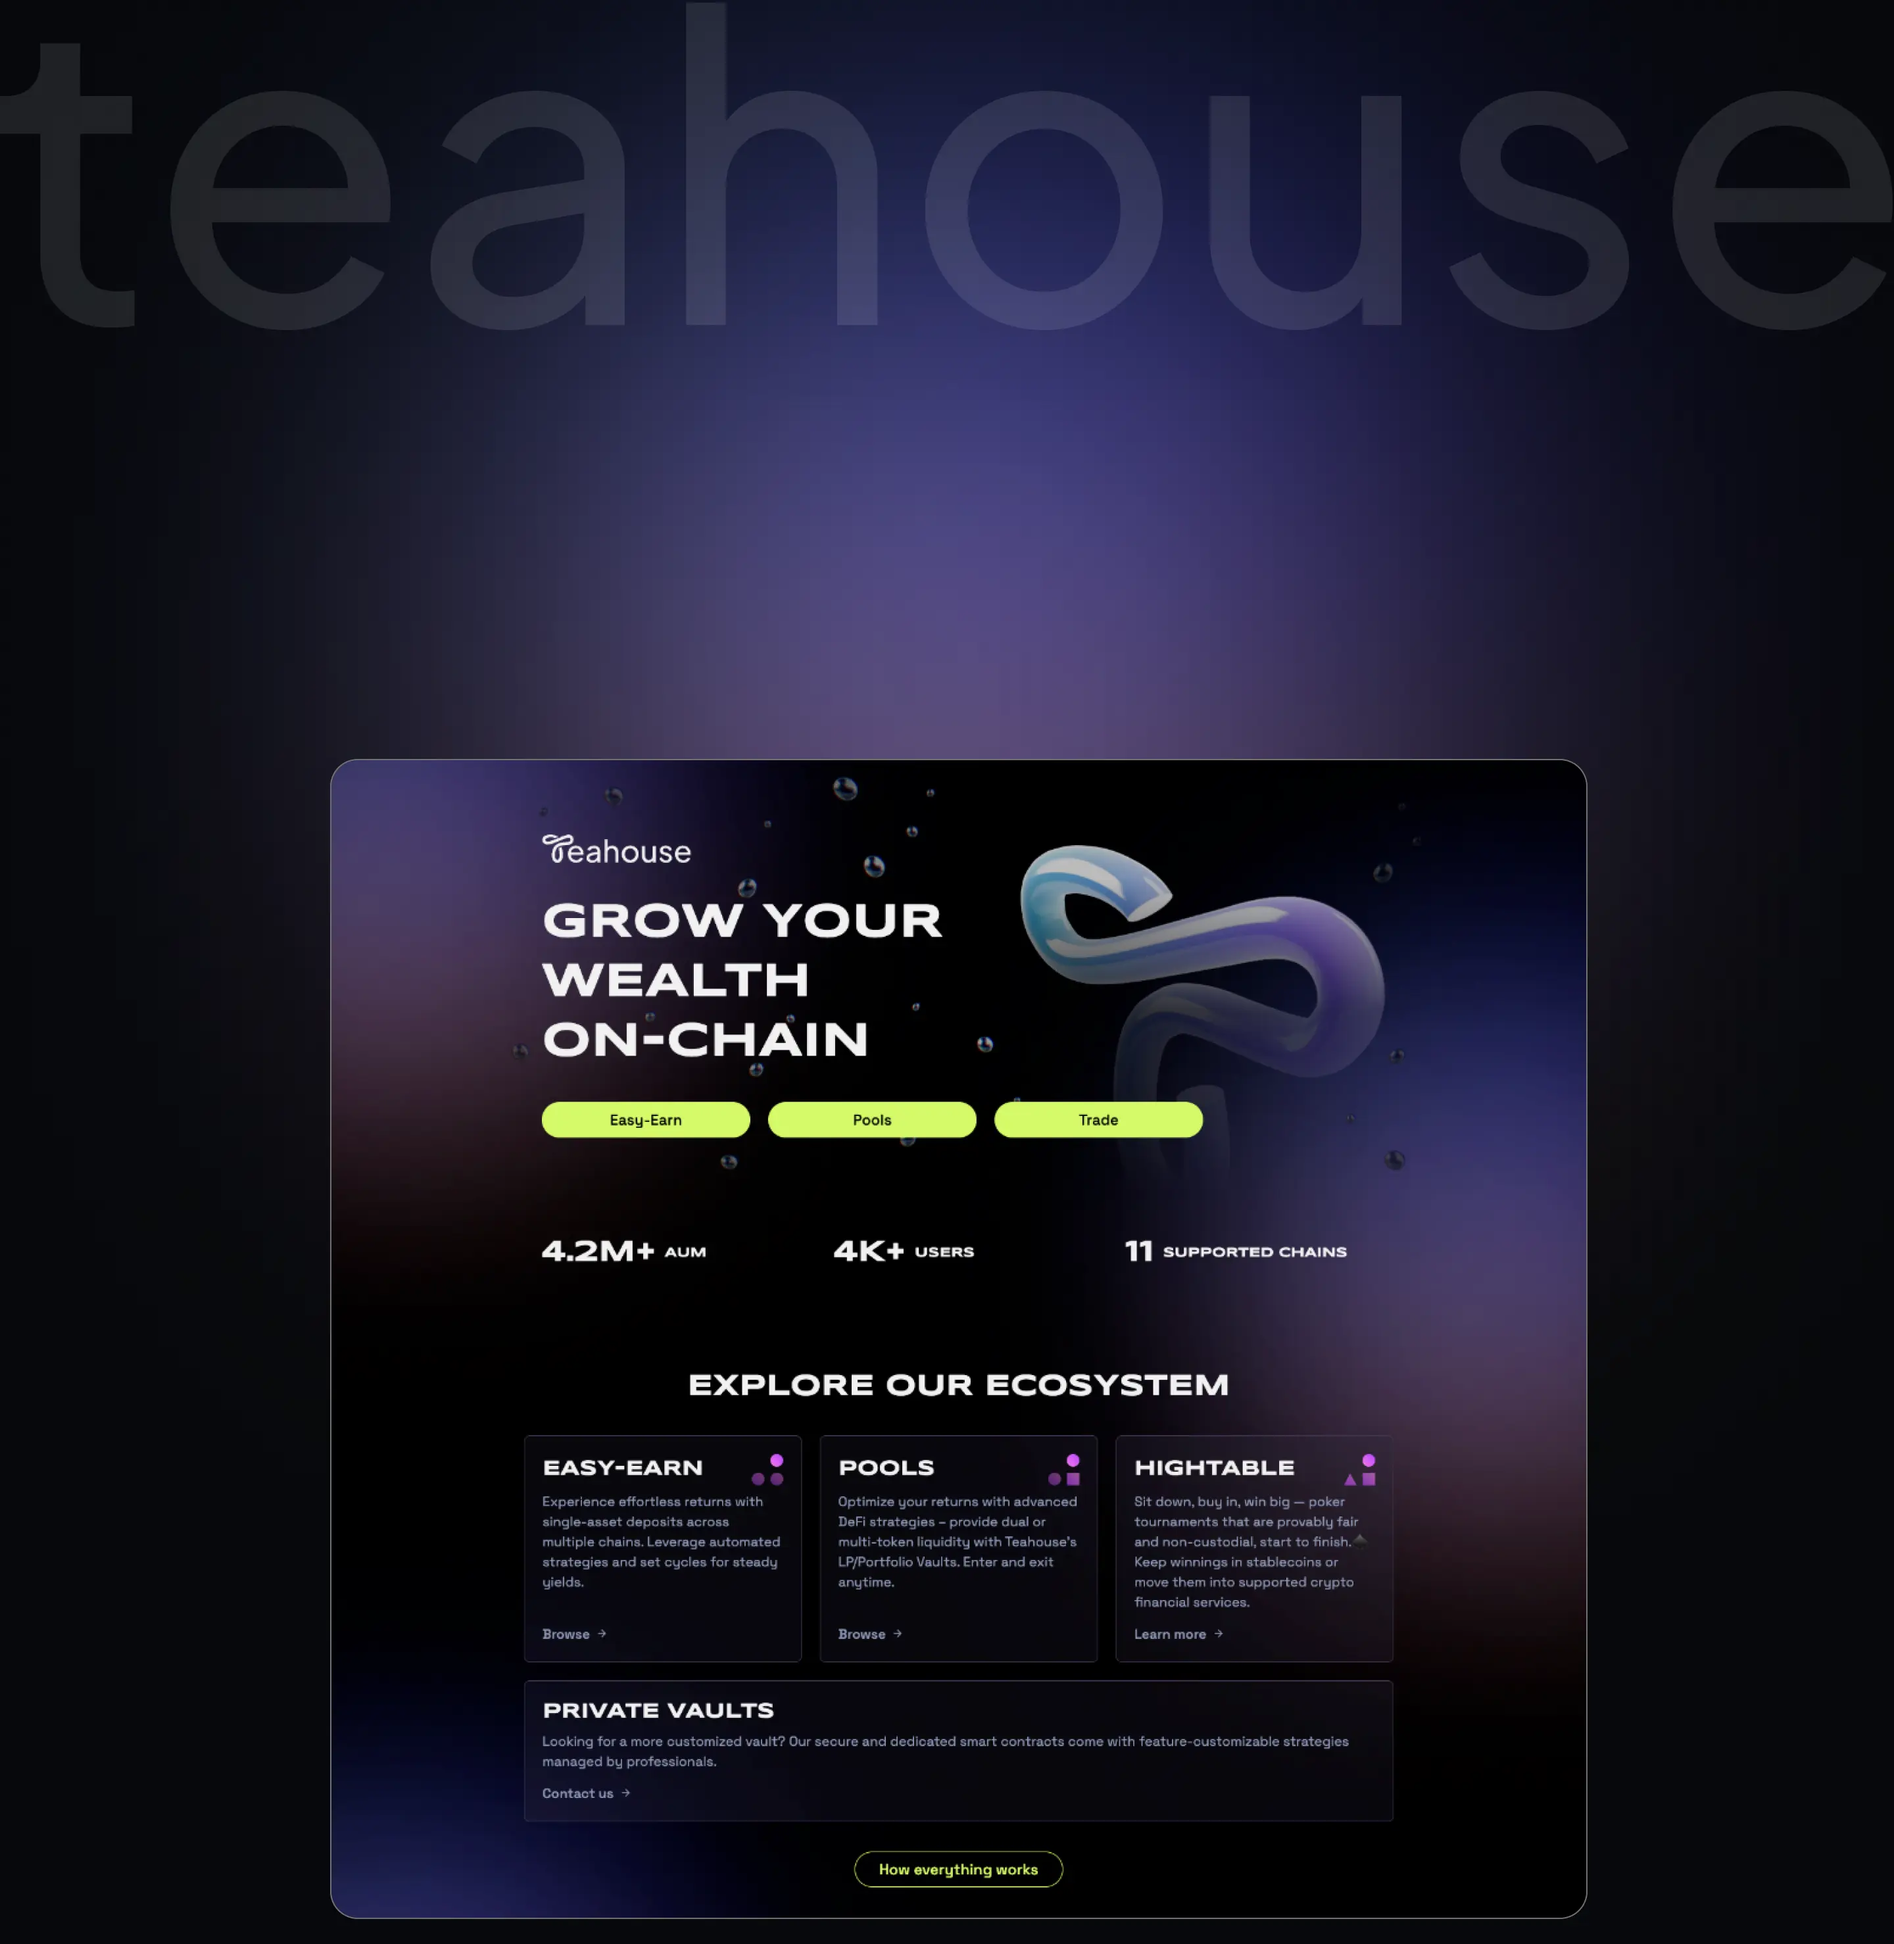
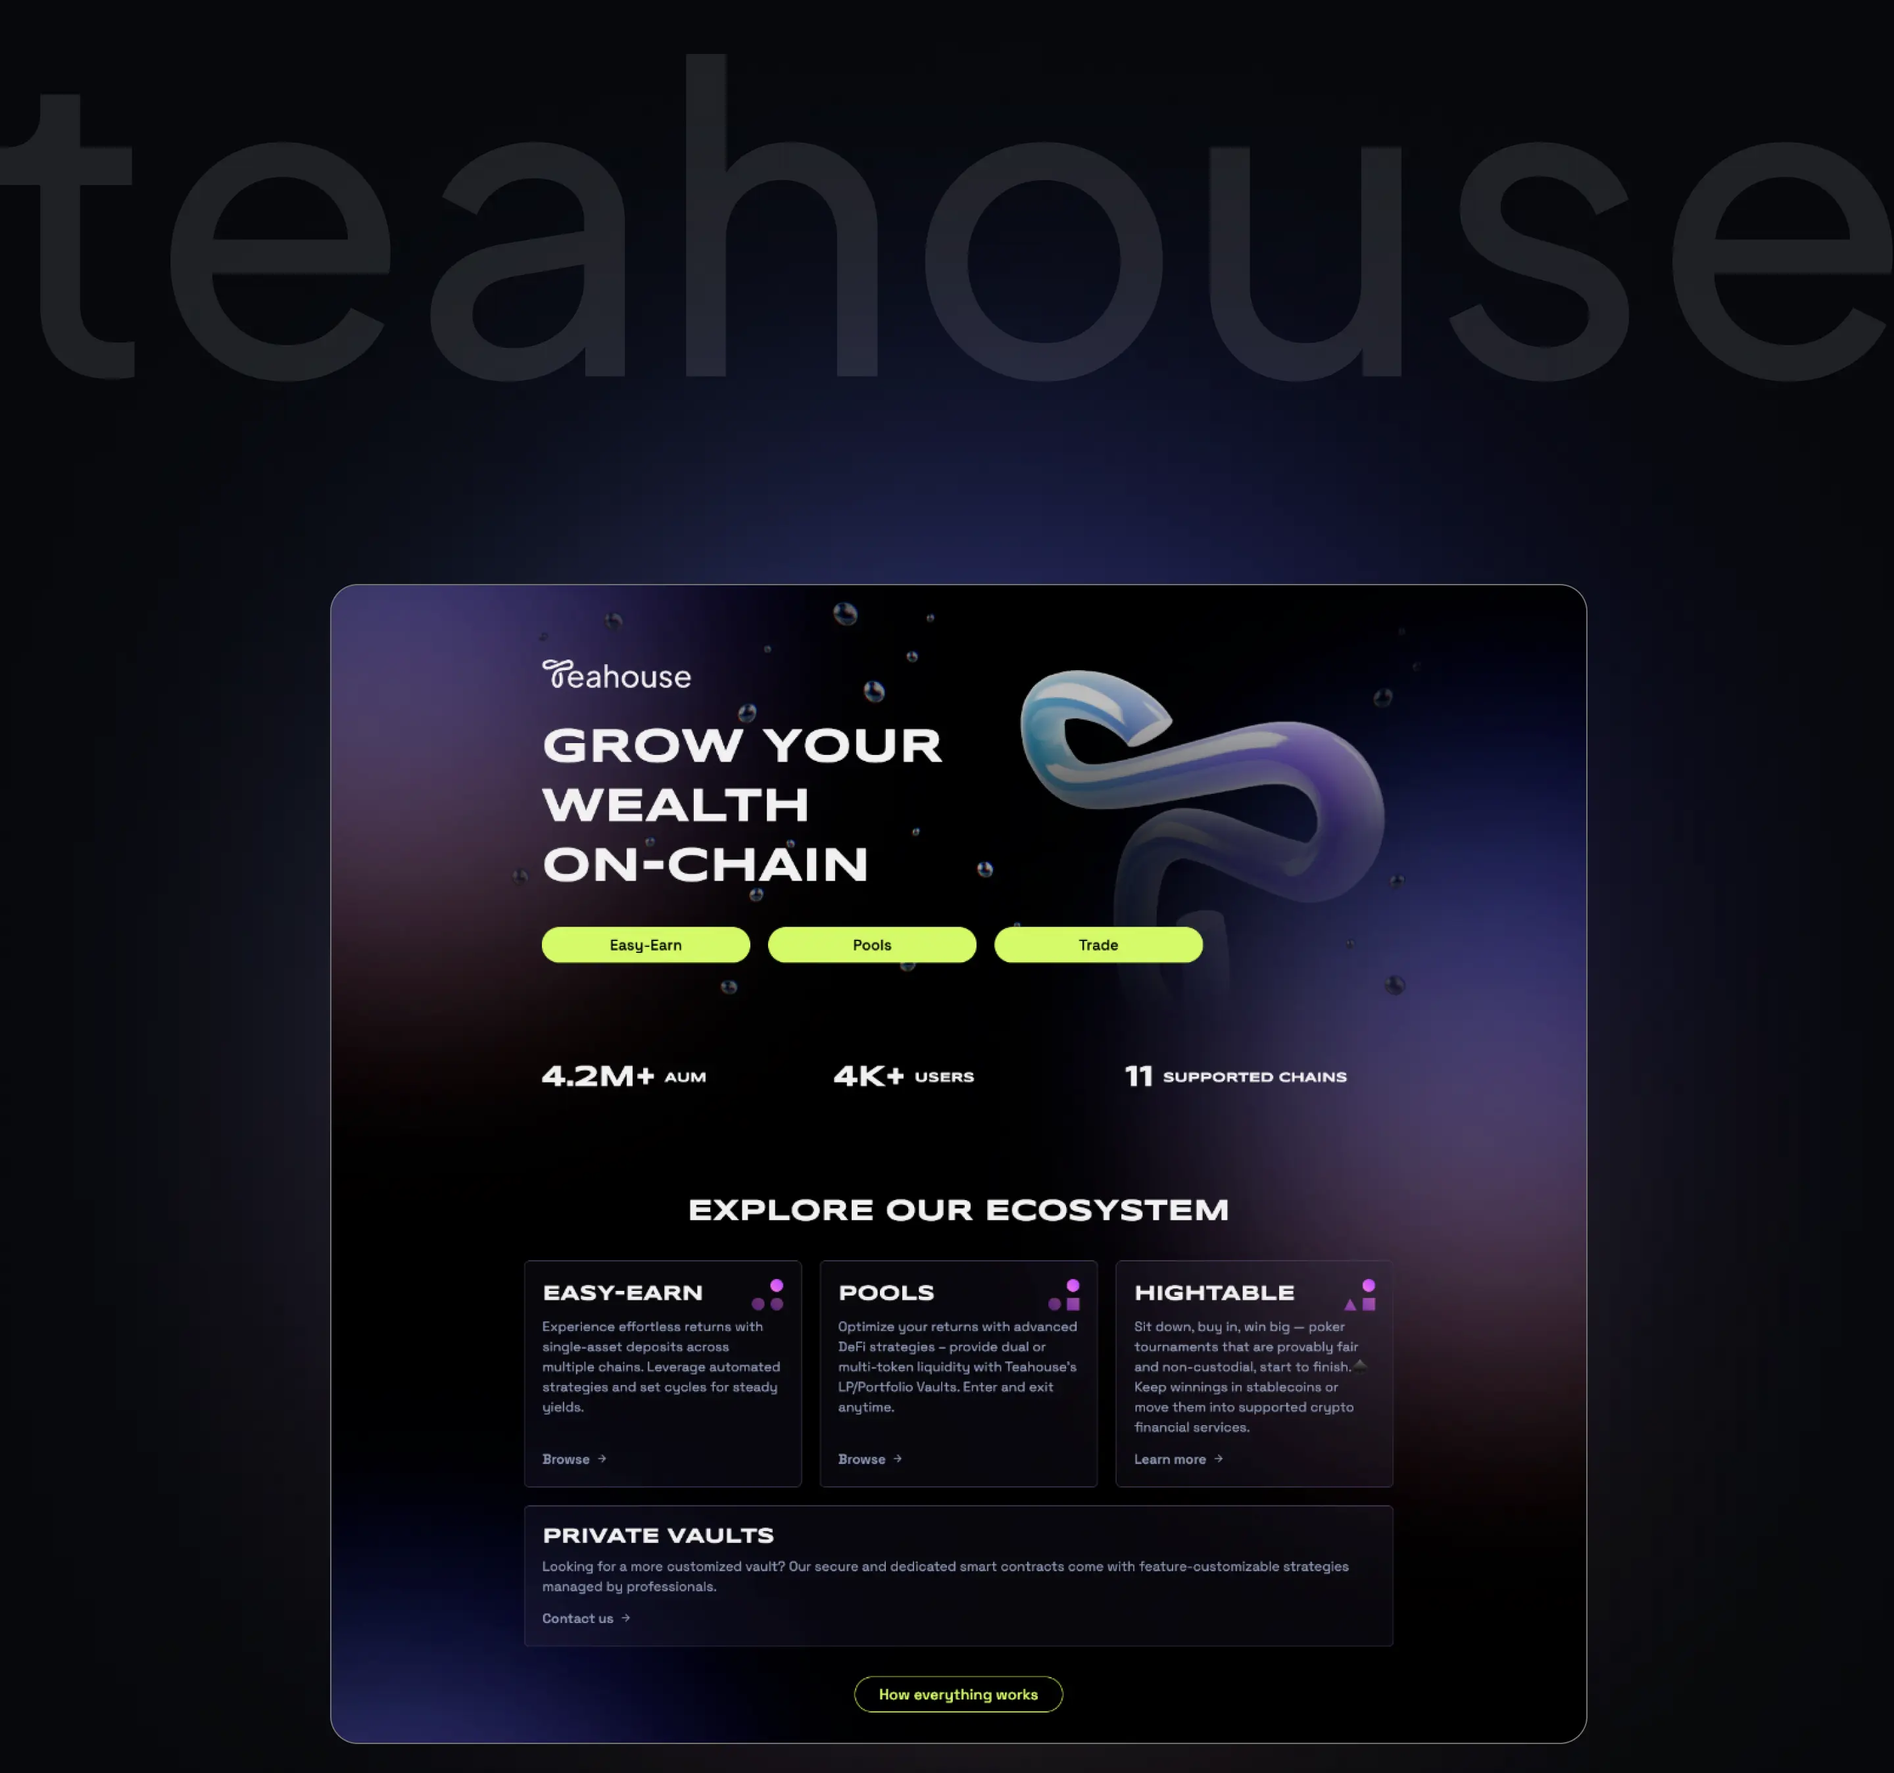
Teahouse: apply Figma fine-tunes
- Segmentation: both user profiles (Pools, Easy Earn) side by side under
  the intro copy; feature cards removed
- Pools / Easy Earn wordmarks now head their PRODUCT PLAN sections
- Vault index title: "Many vaults, one job: help you rule things out."
- Cyan accent (#a8fff8) for the Teahouse theme
- Re-exported desktop hero with the tighter composition
- Fix words running together in profile rows on mobile

Claude-Session: https://claude.ai/code/session_01XwSJSoqq3h7KCuvntWv7Qm

diff --git a/teahouse.html b/teahouse.html
@@ -42,7 +42,7 @@
 
     <div class="stack">
       <div class="block block--bleed" style="--w:1440px" data-reveal="scale">
-        <picture><source media="(max-width: 767px)" srcset="assets/teahouse/hero-mobile.webp" width="390" height="535"><img src="assets/teahouse/hero.webp" alt="Teahouse wordmark above the Teahouse.Finance landing page" width="1440" height="1478"></picture>
+        <picture><source media="(max-width: 767px)" srcset="assets/teahouse/hero-mobile.webp" width="390" height="535"><img src="assets/teahouse/hero.webp" alt="Teahouse wordmark above the Teahouse.Finance landing page" width="1440" height="1348"></picture>
       </div>
       <p class="live-link" data-reveal>View Live <a href="https://teahouse.finance/" target="_blank" rel="noopener">Teahouse.finance</a></p>
     </div>
@@ -61,37 +61,48 @@
       </div>
     </section>
 
-    <div class="block" style="--mw:264px; --w:489px" data-reveal="zoom">
-      <img src="assets/teahouse/pools-wordmark.svg" alt="pools" width="489" height="154" loading="lazy">
-    </div>
-
     <div class="persona">
       <article class="panel persona__card" data-reveal="left">
+        <p class="persona__name">POOLS</p>
         <p class="persona__cat">USER PROFILE</p>
         <p class="persona__quote">"I already do this. Show me if yours is better."</p>
         <div class="persona__rule"></div>
         <dl class="persona__rows">
           <div class="persona__row"><dt>Has</dt><dd>Existing LP positions somewhere else</dd></div>
           <div class="persona__row"><dt>Mental model</dt><dd>A position</dd></div>
-          <div class="persona__row"><dt>Knows</dt><dd>Everything above, plus Uniswap vs Oku · 0.01% vs 0.05% ·<br>delta-neutral · managed vs permissionless</dd></div>
+          <div class="persona__row"><dt>Knows</dt><dd>Everything above, plus Uniswap vs Oku · 0.01% vs 0.05% · <br>delta-neutral · managed vs permissionless</dd></div>
           <div class="persona__row"><dt>Doesn't know</dt><dd>Nothing that matters here</dd></div>
-          <div class="persona__row"><dt>Afraid of</dt><dd>Not losing money — losing edge. Being in a worse<br>pool than they could be</dd></div>
+          <div class="persona__row"><dt>Afraid of</dt><dd>Not losing money — losing edge. Being in a worse <br>pool than they could be</dd></div>
           <div class="persona__row"><dt>Arrives asking</dt><dd>"What's the risk-adjusted yield on this pair, on this chain?"</dd></div>
           <div class="persona__row"><dt>Succeeds when</dt><dd>They find the one vault matching a thesis they already had</dd></div>
         </dl>
       </article>
-      <div class="persona__features" data-stagger="right">
-        <article class="panel feature"><p class="feature__cat">FEATURE</p><div><p class="feature__title">Find My Fit</p><p class="feature__desc">Three questions, none of them about DeFi.</p></div></article>
-        <article class="panel feature"><p class="feature__cat">FEATURE</p><div><p class="feature__title">Vaults Index</p><p class="feature__desc">Every return shown next to what it costs.</p></div></article>
-        <article class="panel feature"><p class="feature__cat">FEATURE</p><div><p class="feature__title">Deposit Panel</p><p class="feature__desc">Every failure comes with a way out.</p></div></article>
-      </div>
+      <article class="panel persona__card" data-reveal="right">
+        <p class="persona__name">EASY EARN</p>
+        <p class="persona__cat">USER PROFILE</p>
+        <p class="persona__quote">"I own crypto. I don't want a second job."</p>
+        <div class="persona__rule"></div>
+        <dl class="persona__rows">
+          <div class="persona__row"><dt>Has</dt><dd>A wallet and one asset — ETH, BTC, or USDC</dd></div>
+          <div class="persona__row"><dt>Mental model</dt><dd>A savings account</dd></div>
+          <div class="persona__row"><dt>Knows</dt><dd>ETH · USDC · APR · wallet</dd></div>
+          <div class="persona__row"><dt>Doesn't know</dt><dd>LP · pair · fee tier · impermanent loss · AMM</dd></div>
+          <div class="persona__row"><dt>Afraid of</dt><dd>Losing the principal. Doing something they can't undo</dd></div>
+          <div class="persona__row"><dt>Arrives asking</dt><dd>"Where can my ETH earn something?"</dd></div>
+          <div class="persona__row"><dt>Succeeds when</dt><dd>They deposit without having to learn a single new word</dd></div>
+        </dl>
+      </article>
+    </div>
+
+    <div class="block block--lead" style="--mw:264px; --w:489px; --tw:400px" data-reveal="zoom">
+      <img src="assets/teahouse/pools-wordmark.svg" alt="pools" width="489" height="154" loading="lazy">
     </div>
 
     <!-- Vault index -->
     <section class="section">
       <header class="sh" data-stagger>
-        <p class="sh__cat">PRODUCT UX</p>
-        <h2 class="sh__title">Fifteen vaults, one job: help you rule things out.</h2>
+        <p class="sh__cat">PRODUCT PLAN</p>
+        <h2 class="sh__title">Many vaults, one job: help you rule things out.</h2>
       </header>
       <div class="prose" data-reveal>
         <p>Filters narrow from chain to strategy type. Find My Fit handles the people filters don't help — three questions, none about DeFi. Every row shows the return and what it costs: APR, drawdown, AUM, and how long it's been live.</p>
@@ -170,35 +181,14 @@
       <img src="assets/teahouse/flow-errors.webp" alt="Deposit error states: wrong chain, over balance, rejected approval, rejected deposit, returned deposit" width="1245" height="459" loading="lazy" data-reveal="left">
     </div>
 
-    <div class="block" style="--mw:264px; --w:638px" data-reveal="zoom">
+    <div class="block block--lead" style="--mw:264px; --w:638px; --tw:481px" data-reveal="zoom">
       <img src="assets/teahouse/easyearn-wordmark.svg" alt="easy Earn" width="638" height="138" loading="lazy">
-    </div>
-
-    <div class="persona">
-      <article class="panel persona__card" data-reveal="left">
-        <p class="persona__cat">USER PROFILE</p>
-        <p class="persona__quote">"I own crypto. I don't want a second job."</p>
-        <div class="persona__rule"></div>
-        <dl class="persona__rows">
-          <div class="persona__row"><dt>Has</dt><dd>A wallet and one asset — ETH, BTC, or USDC</dd></div>
-          <div class="persona__row"><dt>Mental model</dt><dd>A savings account</dd></div>
-          <div class="persona__row"><dt>Knows</dt><dd>ETH · USDC · APR · wallet</dd></div>
-          <div class="persona__row"><dt>Doesn't know</dt><dd>LP · pair · fee tier · impermanent loss · AMM</dd></div>
-          <div class="persona__row"><dt>Afraid of</dt><dd>Losing the principal. Doing something they can't undo</dd></div>
-          <div class="persona__row"><dt>Arrives asking</dt><dd>"Where can my ETH earn something?"</dd></div>
-          <div class="persona__row"><dt>Succeeds when</dt><dd>They deposit without having to learn a single new word</dd></div>
-        </dl>
-      </article>
-      <div class="persona__features" data-stagger="right">
-        <article class="panel feature"><p class="feature__cat">FEATURE</p><div><p class="feature__title">One card, one coin</p><p class="feature__desc">Pick the coin you already hold. That's the whole choice.</p></div></article>
-        <article class="panel feature"><p class="feature__cat">FEATURE</p><div><p class="feature__title">Same coin, any chain</p><p class="feature__desc">Switch networks without leaving the card.</p></div></article>
-        <article class="panel feature"><p class="feature__cat">FEATURE</p><div><p class="feature__title">Your position at a glance</p><p class="feature__desc">What you put in, what it's doing, what it earned.</p></div></article>
-      </div>
     </div>
 
     <!-- Easy-Earn -->
     <section class="section">
       <header class="sh" data-stagger>
+        <p class="sh__cat">PRODUCT PLAN</p>
         <h2 class="sh__title">Same coin, wherever it lives.</h2>
       </header>
       <div class="prose" data-reveal>

diff --git a/css/style.css b/css/style.css
@@ -44,7 +44,7 @@
 }
 
 body.theme-hightable { --bg: #130a23; --accent: #bdfb3d; }
-body.theme-teahouse { --bg: #06080b; --accent: #fe22d2; }
+body.theme-teahouse { --bg: #06080b; --accent: #a8fff8; }
 body.theme-tearex { --bg: #06080b; --accent: #fc7dfe; }
 
 *,
@@ -187,6 +187,8 @@ strong { font-weight: 700; }
 
 .block { width: min(var(--w, 100%), calc(100% - 2 * var(--gutter))); margin: 0 auto; }
 .block--bleed { width: min(var(--w, 1440px), 100%); }
+/* A wordmark that heads the next section: 30px down to its category line. */
+.block--lead { margin-bottom: calc(20px - var(--section-gap)); }
 .block img { width: 100%; }
 
 /* ---------- Section header ---------- */
@@ -802,11 +804,12 @@ strong { font-weight: 700; }
    ========================================================================== */
 
 .persona {
-  width: min(1137px, calc(100% - 2 * var(--gutter)));
+  width: min(1256px, calc(100% - 2 * var(--gutter)));
+  margin-top: calc(var(--persona-top, 60px) - var(--section-gap)); /* sits close under the segmentation copy */
   display: grid;
-  grid-template-columns: 618px 476px;
-  justify-content: space-between;
-  align-items: stretch;
+  grid-template-columns: repeat(2, minmax(0, 1fr));
+  gap: 17px;
+  align-items: start;
 }
 
 .panel {
@@ -822,13 +825,21 @@ strong { font-weight: 700; }
   padding: 20px 10px;
 }
 
-.persona__cat,
-.feature__cat {
+.persona__name {
   margin: 0;
   font-size: 18px;
+  font-weight: 700;
   line-height: 1;
   letter-spacing: 1.8px;
   color: var(--accent);
+}
+
+.persona__cat {
+  margin: -15px 0 0; /* name and "USER PROFILE" read as one label */
+  font-size: 12px;
+  line-height: 1.5;
+  letter-spacing: 1.8px;
+  color: #696969;
 }
 
 .persona__quote {
@@ -838,7 +849,7 @@ strong { font-weight: 700; }
   line-height: 1;
 }
 
-.persona__rule { height: 1px; background: var(--accent); }
+.persona__rule { height: 1px; background: var(--accent); opacity: 0.5; }
 
 .persona__rows { margin: 0; display: flex; flex-direction: column; gap: 15px; }
 
@@ -864,39 +875,6 @@ strong { font-weight: 700; }
   font-weight: 300;
   line-height: 24px;
   text-align: right;
-}
-
-.persona__features {
-  display: flex;
-  flex-direction: column;
-  gap: 45px;
-}
-
-.feature {
-  flex: 1;
-  display: flex;
-  flex-direction: column;
-  justify-content: space-between;
-  gap: 16px;
-  padding: 16px 10px;
-  transition: border-color 0.3s ease, transform 0.4s var(--ease-out);
-}
-
-.feature:hover { border-color: var(--accent); transform: translateX(-4px); }
-
-.feature__title {
-  margin: 0 0 6px;
-  font-size: 20px;
-  font-weight: 700;
-  line-height: 1;
-}
-
-.feature__desc {
-  margin: 0;
-  font-size: 14px;
-  font-weight: 300;
-  line-height: 21px;
-  color: #999;
 }
 
 .stack {
@@ -1050,9 +1028,7 @@ strong { font-weight: 700; }
   .table-real__boards { left: 67%; top: 199px; width: 33.8%; }
 
   /* ---------- Teahouse ---------- */
-  .persona { grid-template-columns: 1fr; gap: 30px; }
-  .persona__features { gap: 30px; }
-  .feature { gap: 12px; }
+  .persona { --persona-top: 32px; grid-template-columns: 1fr; gap: 44px; }
 
   .stack[style*="gap:100px"] { gap: 56px !important; }
   .stack img[style*="margin-top:81px"] { margin-top: 52px !important; }
@@ -1216,7 +1192,8 @@ strong { font-weight: 700; }
   .merch { width: 100%; max-width: 365px; margin: 0 auto; }
 
   /* ---------- Teahouse ---------- */
-  .persona { width: calc(100% - 2 * var(--gutter)); }
+  .persona { width: calc(100% - 2 * var(--gutter)); gap: 30px; }
+  .block--lead { margin-bottom: 0; }
   .persona__quote { line-height: 1.2; }
   .persona__row { gap: 12px; }
   .persona__row dt,
